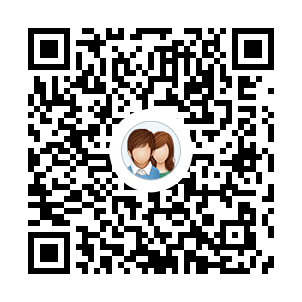
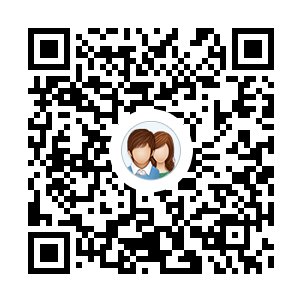
Site updated: 2018-06-25 00:49:52

Changed region(s): [[0.0894, 0.0894, 0.9238, 0.9238], [0.7152, 0.0894, 0.745, 0.1192]]

diff --git a/about/index.html b/about/index.html
@@ -134,14 +134,14 @@
 <meta property="og:site_name" content="联壁金融维权网站">
 <meta property="og:description" content="事件 联壁金融于2018年06月22日暴雷，广大投资者血本无归，没有一个负责人出面澄清这件事。针对联壁和斐讯的不作为行为，广大投资者朋友要聚集起来，坚决维护好自己的利益。 为了维护联壁投资者群体的利益，成立了联壁金融维权方案筹划讨论组。目的在于讨回投资人的钱，减少损失。详情关注:《公告》  联系我们 网站：https://lbjr666.github.io 邮箱：lbjr666@sina.com">
 <meta property="og:locale" content="zh-CN">
-<meta property="og:image" content="http://lbjr666.github.io/images/pasted-0.png">
+<meta property="og:image" content="http://lbjr666.github.io/images/group1.png">
 <meta property="og:image" content="http://lbjr666.github.io/images/group2.png">
 <meta property="og:image" content="http://lbjr666.github.io/images/group3.png">
-<meta property="og:updated_time" content="2018-06-24T16:46:50.863Z">
+<meta property="og:updated_time" content="2018-06-24T16:49:23.667Z">
 <meta name="twitter:card" content="summary">
 <meta name="twitter:title" content="简介">
 <meta name="twitter:description" content="事件 联壁金融于2018年06月22日暴雷，广大投资者血本无归，没有一个负责人出面澄清这件事。针对联壁和斐讯的不作为行为，广大投资者朋友要聚集起来，坚决维护好自己的利益。 为了维护联壁投资者群体的利益，成立了联壁金融维权方案筹划讨论组。目的在于讨回投资人的钱，减少损失。详情关注:《公告》  联系我们 网站：https://lbjr666.github.io 邮箱：lbjr666@sina.com">
-<meta name="twitter:image" content="http://lbjr666.github.io/images/pasted-0.png">
+<meta name="twitter:image" content="http://lbjr666.github.io/images/group1.png">
 
 
   
@@ -427,7 +427,7 @@
 <li><strong>QQ群1：</strong>806278024</li>
 <li><strong>QQ群2：</strong>810809527</li>
 <li><strong>QQ群2：</strong>810873436</li>
-<li><strong>QQ群1二维码：</strong><br><img src="/images/pasted-0.png" alt="upload successful"></li>
+<li><strong>QQ群1二维码：</strong><br><img src="/images/group1.png" alt="upload successful"></li>
 <li><strong>QQ群2二维码：</strong><br><img src="/images/group2.png" alt="upload successful"></li>
 <li><p><strong>QQ群3二维码：</strong><br><img src="/images/group3.png" alt="upload successful"></p>
 </li>

diff --git a/css/main.css b/css/main.css
@@ -1904,7 +1904,7 @@ pre .javascript .function {
   width: 4px;
   height: 4px;
   border-radius: 50%;
-  background: #6b7481;
+  background: #59ffff;
 }
 .links-of-blogroll {
   font-size: 13px;
